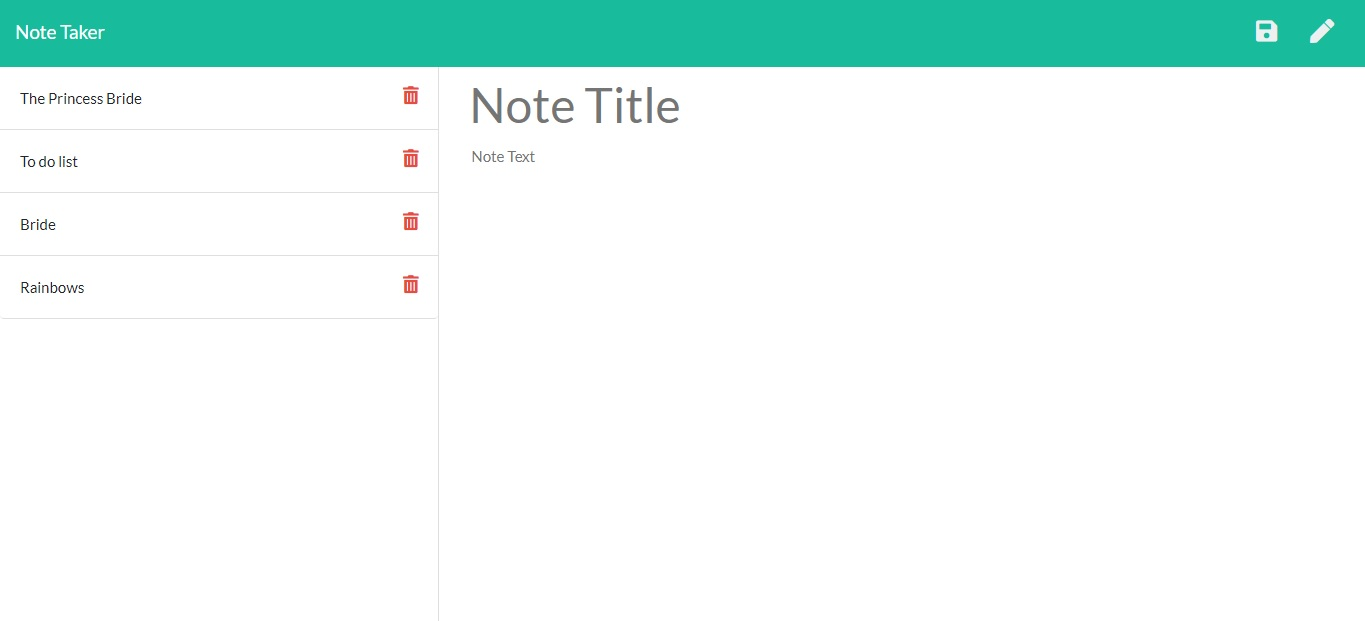
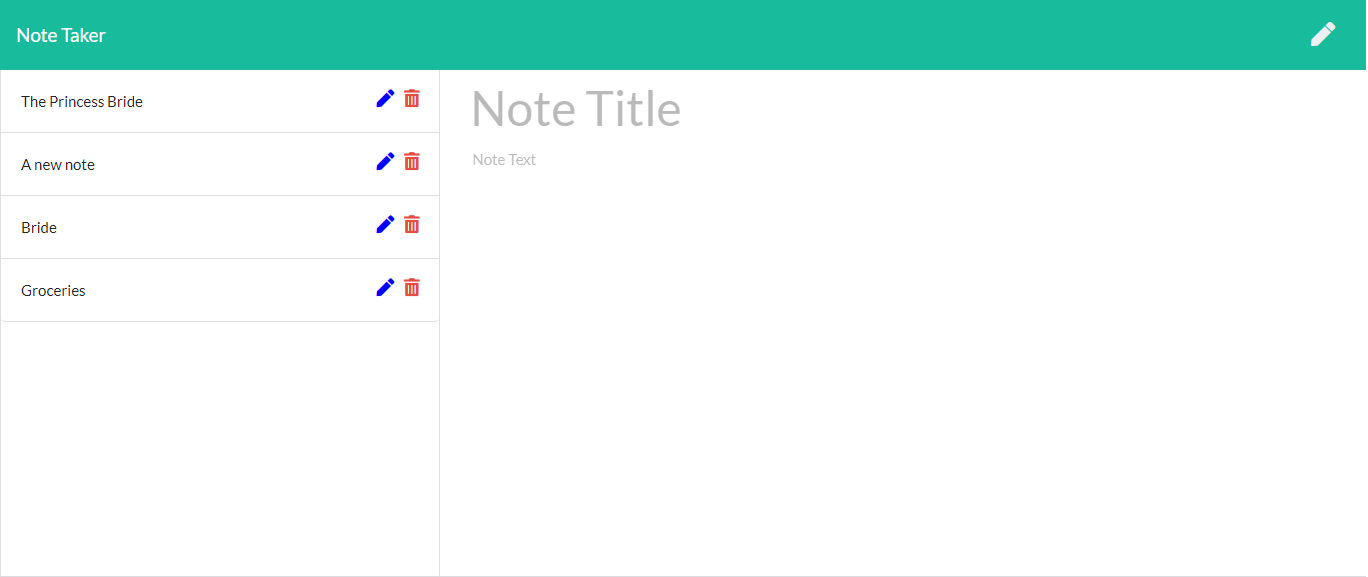
Update README.

diff --git a/README.md b/README.md
@@ -1,38 +1,107 @@
-# Unit 11 Express Homework: Note Taker
-https://polar-dawn-99284.herokuapp.com/notes
+# Note Taker
+Deployed app: https://polar-dawn-99284.herokuapp.com
+
+Github pages:  https://github.com/MauraSlavin/notetaker
 
 ## Description
 
-Create an application that can be used to write, save, and delete notes. This application will uses express backend and save and retrieve note data from a JSON file.
+Notetaker creates, saves, edits, and deletes notes. It uses express backend to read, write, and delete to and from a JSON file.
  
-* The application frontend was created, I built the backend and connected the two.
+The application frontend was created, I built the backend and connected the two.  I also added icons and functionality to edit notes.
 
-* The following HTML routes are used:
+## Technologies and tools used
 
-  * GET `/notes` returns the `notes.html` file.   ![Screen shot of /notes path.](./Develop/public/assets/notes.png)
+- Express
+- npm fs package
+- jQuery
+- Bootstrap
+- Javascript
+- node js
+- html
+- css
+- fontawesome
 
-  * GET `*` returns the `index.html` file.  ![Screen shot of the home page.](./Develop/public/assets/home.png)
+## Problem solved
 
-* The notes are stored in a `db.json` file on the backend The `fs` module is used to read from and write to this file.
+A tool to keep track of a lot of information in one easily accessible place in a simple user-friendly format to keep organized.
 
-* The following API routes were created:
+## Instructions
 
-  * GET `/api/notes` reads the `db.json` file and return all saved notes as JSON.  ![Screen shot of /api/notes (get)](./Develop/public/assets/getapi.png)
+Visit https://polar-dawn-99284.herokuapp.com.  This is the home page:
 
-  * POST `/api/notes` recieves a new note to save on the request body, add it to the `db.json` file, and then return the new note to the client when the save icon is clicked.  Here is the screen shot before saving (with the save icon circled):    ![Screen shot before saving](./Develop/public/assets/before.png)
-  
-  And this is the screen shot after it's been saved, with the title circled:  ![Screen shot after saving](./Develop/public/assets/after.png)
+![Home page.](./Develop/public/assets/home.png).
 
-  * DELETE `/api/notes/:id` receives a query paramter containing the id of a note to delete when the trash can next to the corresponding title is clicked.  The note is deleted from the list and from the `db.json` file.
+Click on "Get Started" to work with the notes.
 
-## User Story
+The next screen looks like this:
 
-AS A user, I want to be able to write and save notes
+![Notes.](./Develop/public/assets/notes.png).
 
-I WANT to be able to delete notes I've written before
+Notes previously stored, along with icons to edit or delete, are displayed on the left.
+A place to create a new note is to the right.
 
-SO THAT I can organize my thoughts and keep track of tasks I need to complete
+### Messages
 
-## Business Context
+A message is displayed when a note is saved or deleted.  Examples:
 
-For users that need to keep track of a lot of information, it's easy to forget or be unable to recall something important. Being able to take persistent notes allows users to have written information available when needed.
+![Saved message.](./Develop/public/assets/savedmsg.png)  ![Deleted message.](./Develop/public/assets/deletedmsg.png)
+
+
+### To create a new note
+
+If "Note Title" is displayed in gray, you may begin typing the title and text of your note.
+Otherwise, click on the pencil icon on the top right to start a new note.
+When you start typing a new note, it will appear in teal.
+
+When a title and some text is entered, a save icon will appear in the top right:
+
+![Save a new note.](./Develop/public/assets/save.png)
+
+When you click on the save icon, the list is saved, and appears at the bottom of the list of notes on the left.
+
+![Saved note.](./Develop/public/assets/saved.png)
+
+"Note Title" is displayed in gray, indicating that a new note can be created.
+Note that the text turned teal when you are creating or updating a note.
+
+### To display a note
+
+Click on the title of a note to display it (without the ability to edit it).  Let's see the before and after screens for displaying the "Groceries" list:
+
+![Click on Groceries.](./Develop/public/assets/clickgroceries.png)
+
+then...
+
+![Display Groceries](./Develop/public/assets/displaygroceries.png)
+
+The "Groceries" note is in black, indicating that it cannot be editted.  You cannot change the title or text, and the save icon will not appear.
+
+### To edit a note
+
+Click on the pencil icon to the right of a note to enable editting of that note.  Let's edit the "Groceries" note:
+
+![Edit Groceries.](./Develop/public/assets/editgroceries.png)
+
+The "Groceries" note is displayed in teal, indicating that it is edittable.  The save icon appears on the top right of the screen.
+
+Let's change bananas to pasta, and save the changed list:
+
+![Save changed Groceries.](.Develop/public/assets/savegroceries.png)
+
+After the new "Groceries" note is saved, the screen looks like this:
+
+![Saved Groceries.](./Develop/public/assets/savedgroceries.png)
+
+Note that "Groceries" is now at the bottom of this list.
+
+### To delete a note
+
+Simply click on the trash can (delete) icon next to the note you want to delete.  Let's delete the "Groceries" note:
+
+![Delete Groceries.](./Develop/public/assets/deletegroceries.png)
+
+After the "Groceries" note is deleted, it no longer appears in the list on the screen:
+
+![Deleted Groceries.](./Develop/public/assets/deletedgroceries.png)
+
+
